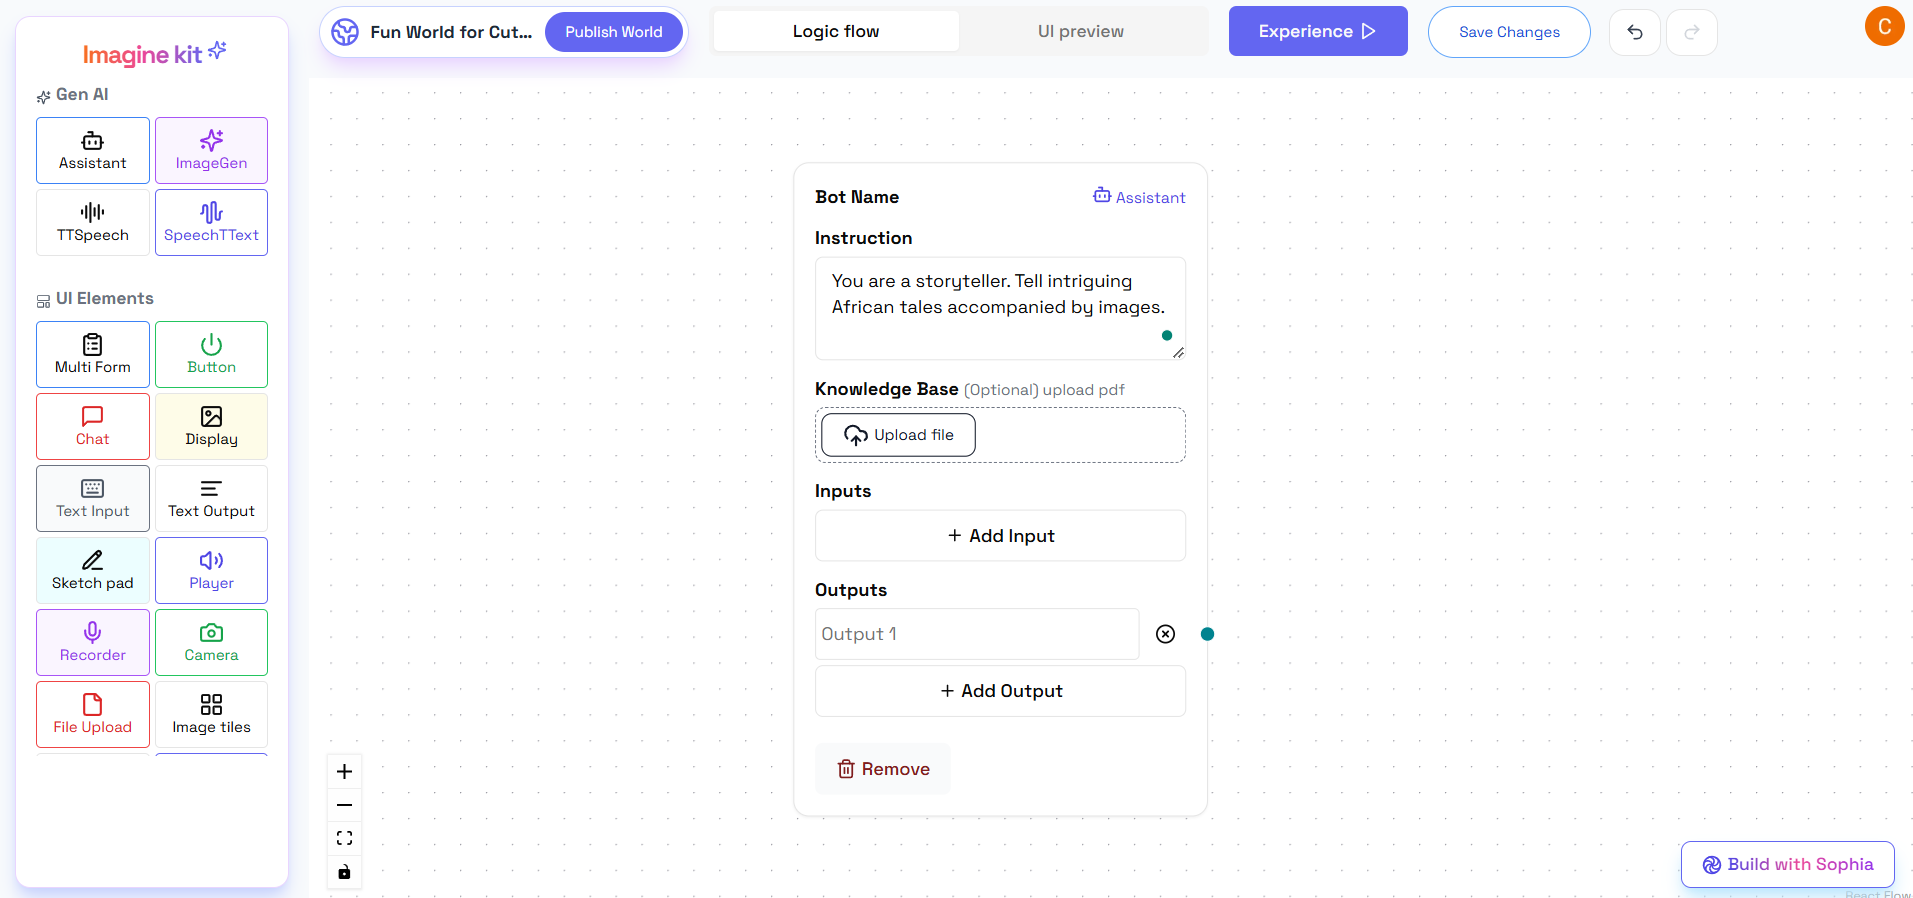
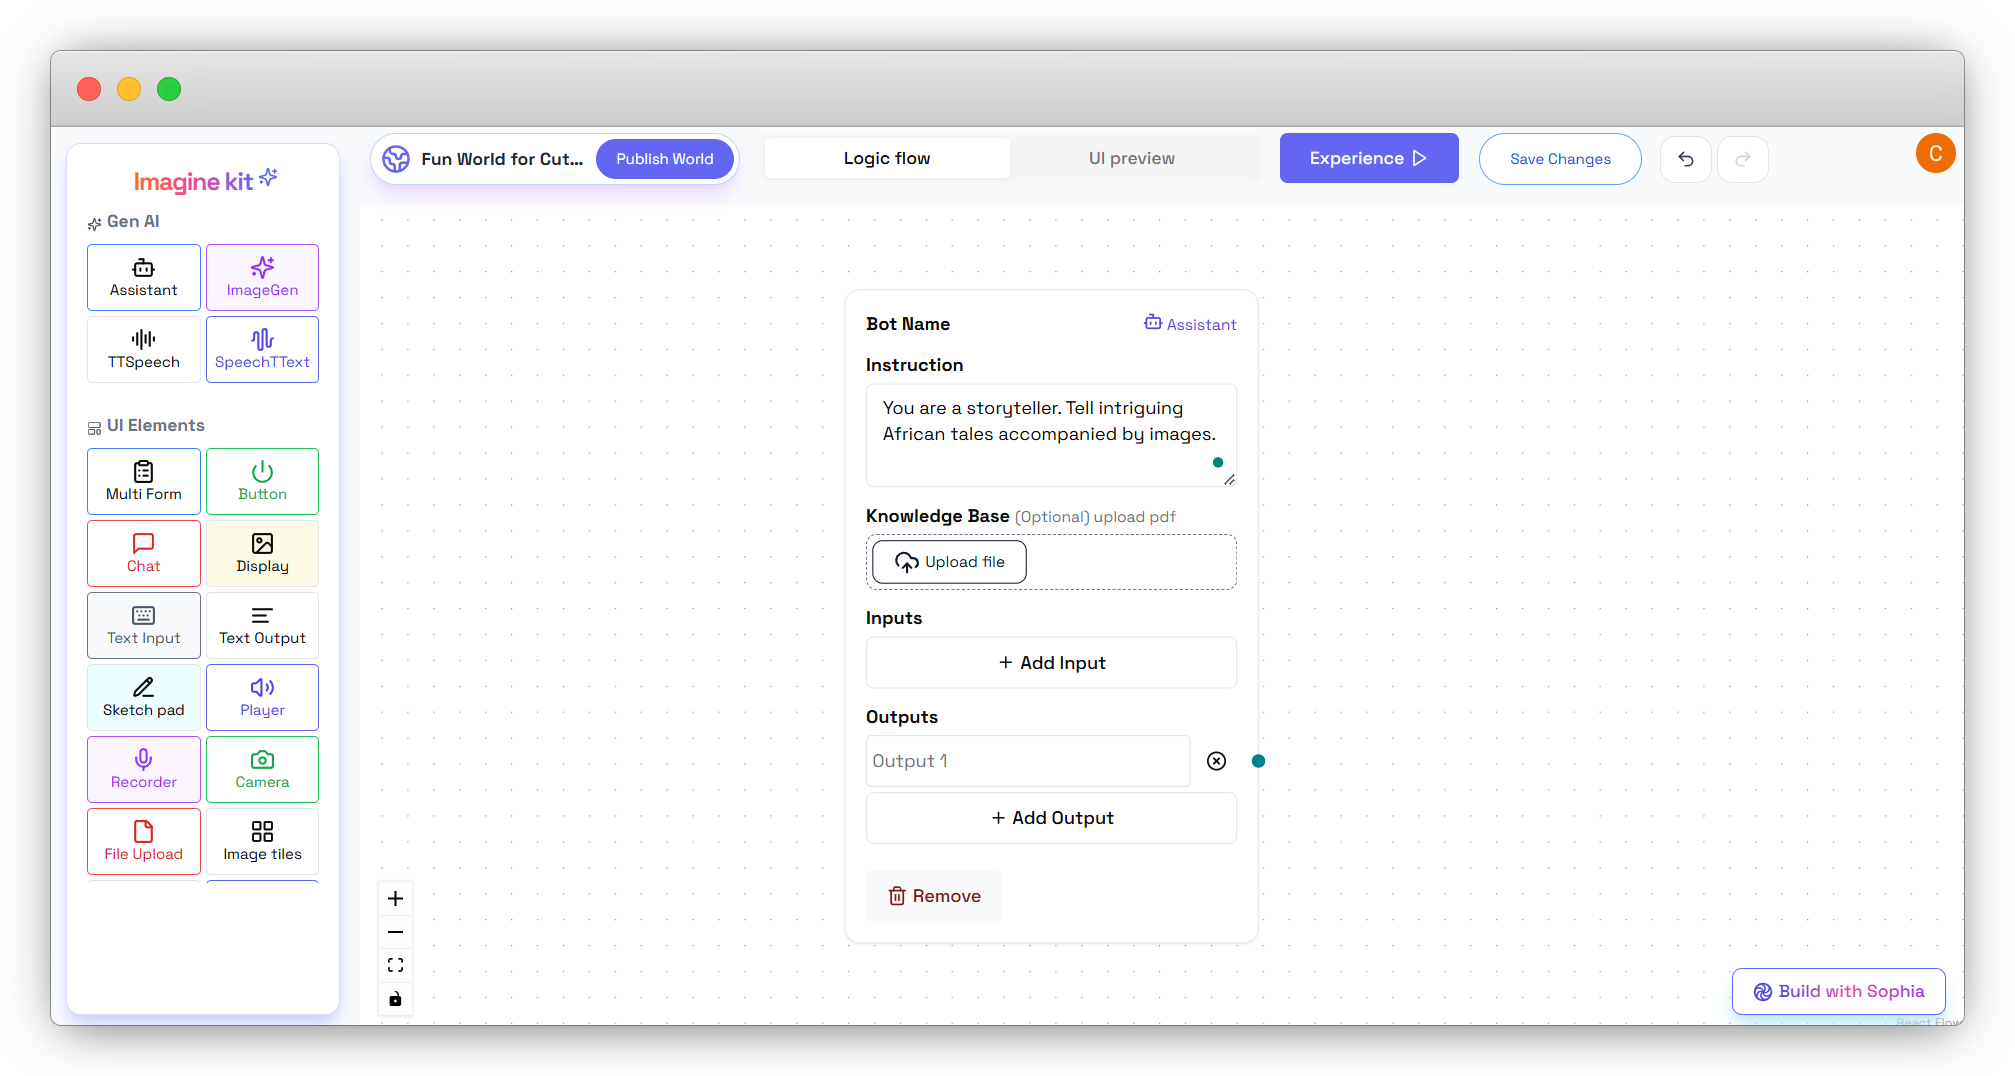
feat: add web frame to images

diff --git a/src/content/docs/guides/build/step-6.md b/src/content/docs/guides/build/step-6.md
@@ -13,4 +13,4 @@ description: Buidling using Imagine Kit.
 
 Your workflow should now be complete, allowing users to generate and experience AI-driven African storytelling!  
 
-[Learn more about the components in ImagineKit.](#)
+[Learn more about the components in ImagineKit.](../components/ai.md)
